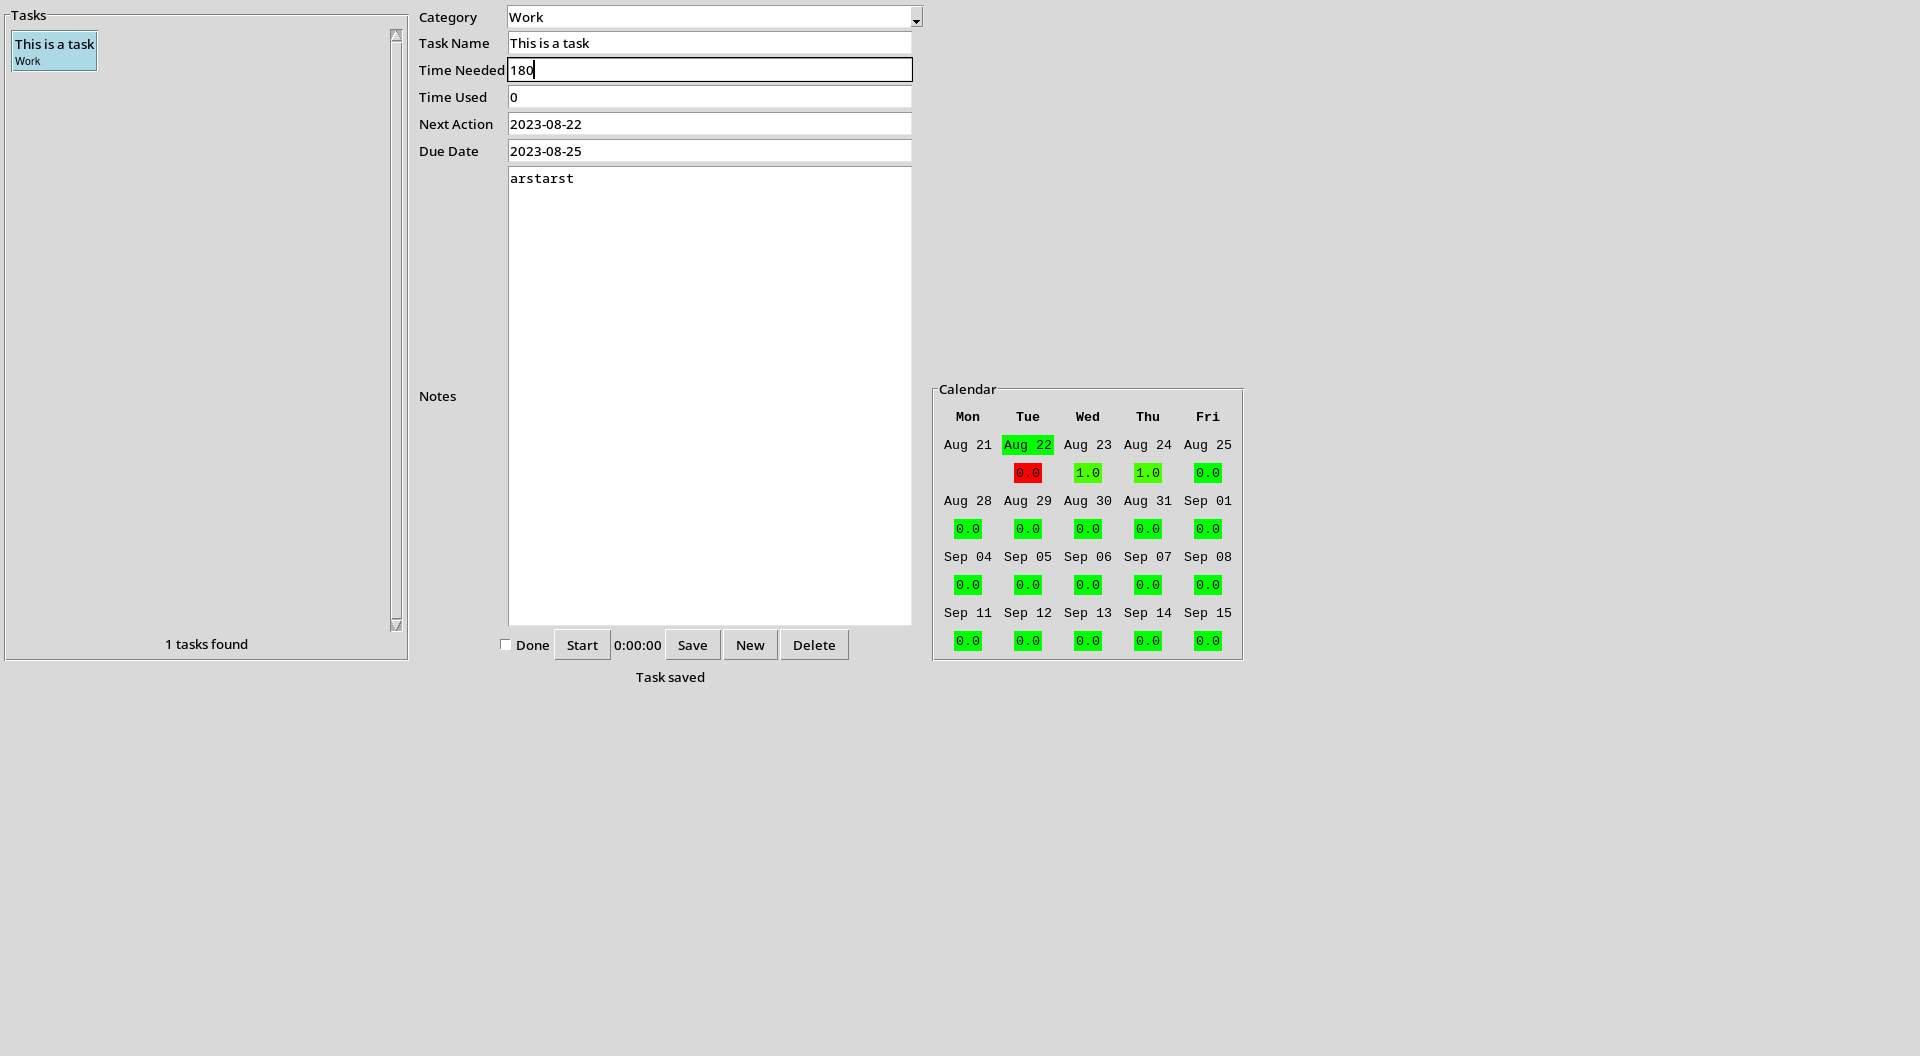
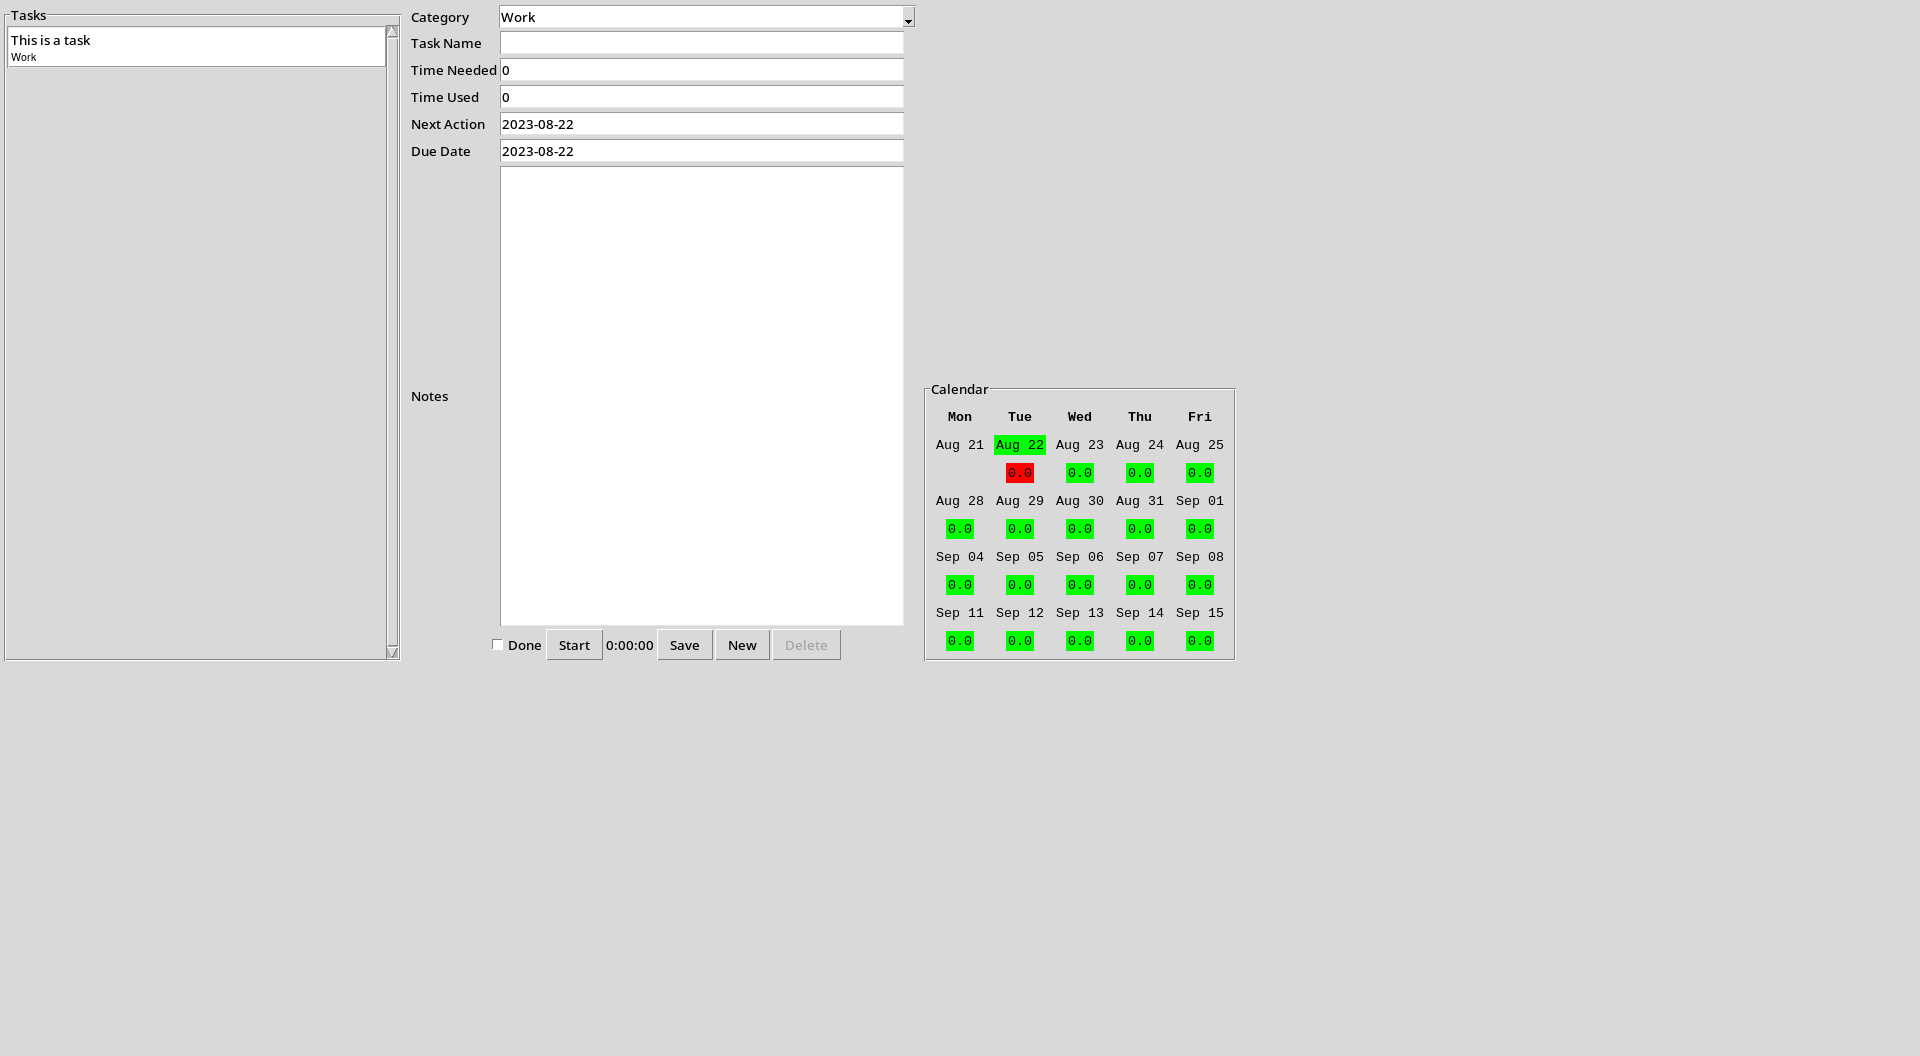
Make task rows take full width of scroller using code from d426bb5

diff --git a/beavor/widgets.py b/beavor/widgets.py
@@ -8,7 +8,7 @@ import sys
 import platform
 from typing import List, Any, Optional
 
-from beavor.backend import green_red_scale, DatabaseManager, Task, PyDueDate, today_date, format_date, parse_date, PyDueDateType
+from beavor.backend import green_red_scale, DatabaseManager, Task, PyDueDate, today_date, format_date, parse_date
 
 ###########################################
 #Readability / coding style / maintainability
@@ -408,56 +408,61 @@ class Calendar(tk.LabelFrame):
         for task in openTasks
       )
 
-class ScrollFrame(tk.Frame):
-    def __init__(self, parent: tk.Frame | tk.LabelFrame):
-        super().__init__(parent) # create a frame (self)
+class ScrollFrame(tk.LabelFrame):
+    def __init__(self, parent: tk.Frame | tk.LabelFrame, text: str):
+        super().__init__(parent, text=text) # create a frame (self)
 
-        self.canvas = tk.Canvas(self, borderwidth=0)                                #place canvas on self
-        self.viewPort = tk.Frame(self.canvas)                                       #place a frame on the canvas, this frame will hold the child widgets
+        self.canvas = tk.Canvas(self, borderwidth=0) #place canvas on self
+        self.viewPort = tk.Frame(self.canvas) #place a frame on the canvas, this frame will hold the child widgets
         self.vsb = tk.Scrollbar(self, orient="vertical", command=self.canvas.yview) #place a scrollbar on self
-        self.canvas.configure(yscrollcommand=self.vsb.set)                          #attach scrollbar action to scroll of canvas
+        self.canvas.configure(yscrollcommand=self.vsb.set) #attach scrollbar action to scroll of canvas
 
-        self.vsb.pack(side="right", fill="y")                                       #pack scrollbar to right of self
-        self.canvas.pack(side="left", fill="both", expand=True)                     #pack canvas to left of self and expand to fil
-        self.canvas_window = self.canvas.create_window((4,4), window=self.viewPort, anchor="nw",            #add view port frame to canvas
-        tags="self.viewPort")
+        self.vsb.pack(side="right", fill="y") #pack scrollbar to right of self
+        self.canvas.pack(side="left", fill="both", expand=True) #pack canvas to left of self and expand to fill
+        self.canvas_window = self.canvas.create_window((4,4), window=self.viewPort, anchor="nw", tags="self.viewPort")
 
-        self.viewPort.bind("<Configure>", self.onFrameConfigure)                    #bind an event whenever the size of the viewPort frame changes.
-        self.canvas.bind("<Configure>", self.onCanvasConfigure)                     #bind an event whenever the size of the canvas frame changes.
+        self.viewPort.bind("<Configure>", self.onFrameConfigure) #bind an event whenever the size of the viewPort frame changes.
+        self.viewPort.grid_columnconfigure(0, weight=1)
 
-        self.viewPort.bind('<Enter>', self.onEnter)                                 # bind wheel events when the cursor enters the control
-        self.viewPort.bind('<Leave>', self.onLeave)                                 # unbind wheel events when the cursorl leaves the control
+        self.canvas.bind("<Configure>", self.onCanvasConfigure) #bind an event whenever the size of the canvas frame changes.
 
-        self.onFrameConfigure(None)                                                 #perform an initial stretch on render, otherwise the scroll region has a tiny border until the first resize
+        self.bind('<Enter>', self.onEnter) # bind wheel events when the cursor enters the control
+        self.bind('<Leave>', self.onLeave) # unbind wheel events when the cursor leaves the control
+
+        self.onFrameConfigure(None) #perform an initial stretch on render, otherwise the scroll region has a tiny border until the first resize
 
     def onFrameConfigure(self, _):
         '''Reset the scroll region to encompass the inner frame'''
-        self.canvas.configure(scrollregion=self.canvas.bbox("all"))                 #whenever the size of the frame changes, alter the scroll region respectively.
+        self.canvas.configure(scrollregion=self.canvas.bbox("all")) #whenever the size of the frame changes, alter the scroll region respectively.
 
     def onCanvasConfigure(self, event: tk.Event):
         '''Reset the canvas window to encompass inner frame when required'''
         canvas_width = event.width
-        self.canvas.itemconfig(self.canvas_window, width = canvas_width)            #whenever the size of the canvas changes alter the window region respectively.
+        self.canvas.itemconfig(self.canvas_window, width = canvas_width) #whenever the size of the canvas changes alter the window region respectively.
 
-    def onMouseWheel(self, event: tk.Event):                                        # cross platform scroll wheel event
-        if platform.system() == 'Windows':
-            self.canvas.yview_scroll(int(-1* (event.delta/120)), "units")
-        elif platform.system() == 'Darwin':
-            self.canvas.yview_scroll(int(-1 * event.delta), "units")
-        else:
-            if event.num == 4:
-                self.canvas.yview_scroll( -1, "units" )
-            elif event.num == 5:
-                self.canvas.yview_scroll( 1, "units" )
+    def onMouseWheel(self, event: tk.Event):  # cross platform scroll wheel event
+        canvas_height = self.canvas.winfo_height()
+        rows_height = self.canvas.bbox("all")[3]
 
-    def onEnter(self, _):                                                       # bind wheel events when the cursor enters the control
+        if rows_height > canvas_height:
+            if platform.system() == 'Windows':
+                self.canvas.yview_scroll(int(-1* (event.delta/120)), "units")
+            elif platform.system() == 'Darwin':
+                self.canvas.yview_scroll(int(-1 * event.delta), "units")
+            else:
+                if event.num == 4:
+                    self.canvas.yview_scroll( -1, "units" )
+                elif event.num == 5:
+                    self.canvas.yview_scroll( 1, "units" )
+
+    def onEnter(self, _): # bind wheel events when the cursor enters the control
         if platform.system() == 'Linux':
             self.canvas.bind_all("<Button-4>", self.onMouseWheel)
             self.canvas.bind_all("<Button-5>", self.onMouseWheel)
         else:
             self.canvas.bind_all("<MouseWheel>", self.onMouseWheel)
 
-    def onLeave(self, _):                                                       # unbind wheel events when the cursorl leaves the control
+    def onLeave(self, _): # unbind wheel events when the cursor leaves the control
         if platform.system() == 'Linux':
             self.canvas.unbind_all("<Button-4>")
             self.canvas.unbind_all("<Button-5>")
@@ -466,13 +471,9 @@ class ScrollFrame(tk.Frame):
 
 class TaskScroller(ScrollFrame):
     def __init__(self, parent: tk.Frame | tk.LabelFrame, onRowClick):
-        super().__init__(parent)
+        super().__init__(parent, "Tasks")
         self.taskRows = []
         self.onRowClick = onRowClick
-
-        self.recordLabel = tk.Label(parent, text="")
-        self.recordLabel.pack(side=tk.RIGHT)
-        self.recordLabel.pack(side=tk.BOTTOM)
 
     def showTasks(self, tasks: list[Task]) -> None:
         for _ in range(len(self.taskRows)):
@@ -482,8 +483,6 @@ class TaskScroller(ScrollFrame):
             taskRow = TaskRow(self.viewPort, task, lambda t=task: self.onRowClick(t))
             taskRow.grid(row=i, column=0, sticky= tk.W+tk.E)
             self.taskRows.append(taskRow)
-
-        self.recordLabel.config(text=str(len(tasks)) + " tasks found")
 
     def highlightTask(self, task: Optional[Task]) -> None:
         for tr in self.taskRows:
@@ -550,8 +549,6 @@ class WorklistWindow():
       self.root.winfo_toplevel().title("WORKLIST Beta")
 
       # Frame to hold the tasklist display and associated frames and widgets
-      self.taskListFrame = tk.LabelFrame(self.root, text="Tasks", padx=4, pady=4)
-      self.taskListFrame.grid(row=0, column=0, pady=4, padx=4, sticky=tk.N+tk.S+tk.E+tk.W)
 
       self.db.get_open_tasks()
 
@@ -559,8 +556,8 @@ class WorklistWindow():
       self.editingPane = EditingPane(self.root, self.getSelectedTask, self.save, self.notify, self.db.get_categories, self.newTask, self.deleteTask, self.db.default_task)
       self.editingPane.grid(row=0, column=1, padx=4, pady=4)
 
-      self.scroller = TaskScroller(self.taskListFrame, self.select)
-      self.scroller.pack(side=tk.TOP, fill="both", expand=True)
+      self.scroller = TaskScroller(self.root, self.select)
+      self.scroller.grid(row=0, column=0, pady=4, padx=4, sticky=tk.N+tk.S+tk.E+tk.W)
 
       self.loadedTasks: List[Task] = []
       self.select(None)
